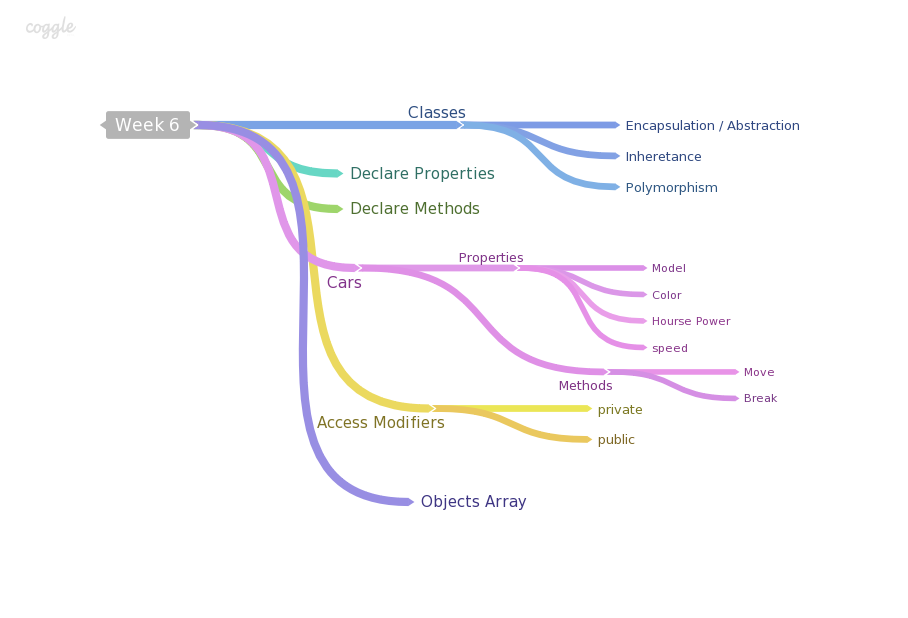
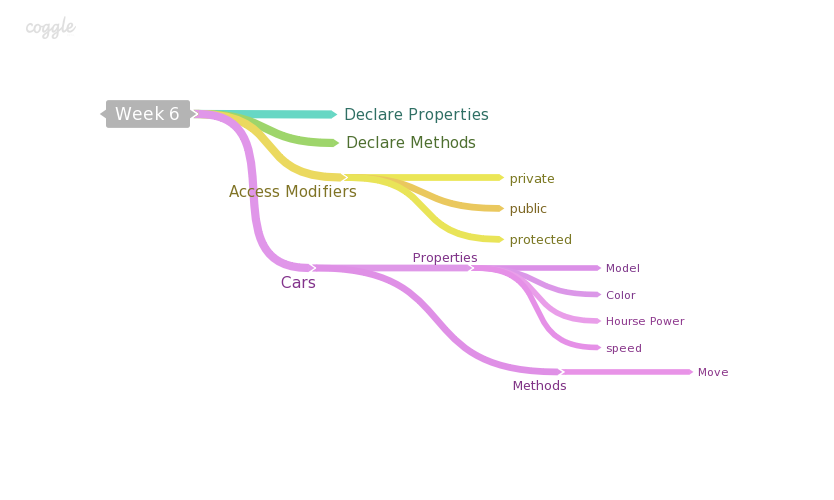
week 6 updated

Changed region(s): [[0.0935, 0.15, 0.8729, 0.78], [0.3741, 0.78, 0.5923, 0.84], [0.0312, 0.03, 0.0935, 0.09]]

diff --git a/week6/Rectangle.cs b/week6/Rectangle.cs
@@ -1,0 +1,60 @@
+using System;
+
+namespace Shape
+{
+	
+	class Rectangle
+	{
+		int width,height;
+		
+		public int Width{ 
+			get{ return width;}
+			set {
+				if (value < 0 ) 
+				{
+					value = value * -1;
+				}
+				width = value;
+			}
+		}
+		
+		
+		public int Height{ 
+			get{ return height;}
+			set {
+				if (value < 0 ) 
+				{
+					value = value * -1;
+				}
+				height = value;
+			}
+		}
+		
+		public int Area()
+		{
+			return width * height;
+		}
+		
+		
+		public int Perimeter()
+		{
+			return width + width + height + height;
+		}
+				
+	}
+	
+	class MainClass
+	{
+		public static void Main (string[] args)
+		{
+			
+			Rectangle r1 = new Rectangle();
+			r1.Width = -10;
+			r1.Height = 5;
+			
+			
+			Console.WriteLine("Area : {0}\nPerimeter : {1}",r1.Area(),r1.Perimeter());
+			
+		}
+	}
+}

diff --git a/week6/Car.cs b/week6/Car.cs
@@ -1,0 +1,43 @@
+using System;
+namespace Methods
+{
+    class car
+{
+	public string Color{ get; set;}
+	protected int hoursePower;
+
+    public int X{ get ; set;}
+    public int Y{get;set;}
+
+
+	public int HoursePower{
+	get
+	{
+		return hoursePower;
+	}
+	set
+	{
+		if(value < 0)
+		{
+		value = value * -1;
+		}
+		hoursePower = value;
+	}
+	}
+
+}
+
+
+
+
+
+    class Program
+    {
+        static void Main(string[] args)
+        {
+            car c = new car();
+            c.hoursePower = 5;
+
+        }
+    }
+}

diff --git a/week7/assignments.md b/week7/assignments.md
@@ -1,0 +1,36 @@
+#Assignments Week6
+
+##City Class
+- Create a class **City**
+- Properties :
+	- Name (float)
+	- Longitude (int)
+	- Latitude (int)
+
+- Methods :
+	- Distance From other City :
+		- Taks another city as a pramater
+		- returns the diffrence of long + diffrence of lat
+		- c1.distance(c2) = (c1.lat - c2.lat + c1.long - c2.long);
+
+##Circle Class
+- Creat A class **Circle**
+- Properties:
+	- Radius float 
+
+- Methods :
+	- Area 
+	- Prem
+	- use PI = 3.14
+
+
+
+##Methods
+
+- Create a method to calculate the number of digits in a number 
+example : 245    > 3 digits.
+		  123456 > 6 digits.
+
+- Create a method to retrive the nth digit of a number 
+example : 474  , 2 > 7
+   		  1357 , 4 > 1

diff --git a/week7/README.md b/week7/README.md
@@ -1,0 +1,23 @@
+#Week 7
+
+#### [Please Submit Feedback][2]
+
+### [Sheet Added] [1] 
+
+##Classes and OOP World
+- Constructors.
+- Constructor Overloading.
+- Object Arrays.
+- Inhertance.
+
+##Sheet Discussion
+- Question Implementation
+- Ideas
+
+#Quiz 2
+
+
+![alt text](https://raw.github.com/TheNightPhoenix/AdvancedProgramming/master/week6/map.png "Class Mind Map")
+
+[1] : https://docs.google.com/document/d/17JAT2XYERDbzCePRyWd_mXOk7ZK8mpG0KDxjpWULzTs/edit?usp=sharing
+[2]:https://docs.google.com/forms/d/1-oPlwu_OfXpBWdaN5_UEjuR3cY6MvtqJj_6AtgvwSWc

diff --git a/README.md b/README.md
@@ -2,6 +2,9 @@
 
 Advanced Programming examples files used in class .
 
+### [Sheets][2] - **Last Update:8/11/2013**
+
+
 
 ###[To submit anonymous suggestions/complaints][1]
 please don't hesitate to suggest anything you want, totally anonymous.
@@ -33,3 +36,5 @@ abdallah 'dot' hodieb 'at' gmail 'dot' com
 
 
 [1]: https://docs.google.com/forms/d/1j2KjST47SQcUPX7upCgp4YfHb0TbnDo9byv5yPD0BL0/viewform
+
+[2]: https://docs.google.com/document/d/17JAT2XYERDbzCePRyWd_mXOk7ZK8mpG0KDxjpWULzTs/edit?usp=sharing

diff --git a/week6/README.md b/week6/README.md
@@ -6,11 +6,11 @@
 ##Classes and OOP World
 - Classes
 - Methods
-- Inhertance
 
 ##Access Modifiers
 - Private
 - Public
+- Protected
 
 
 
